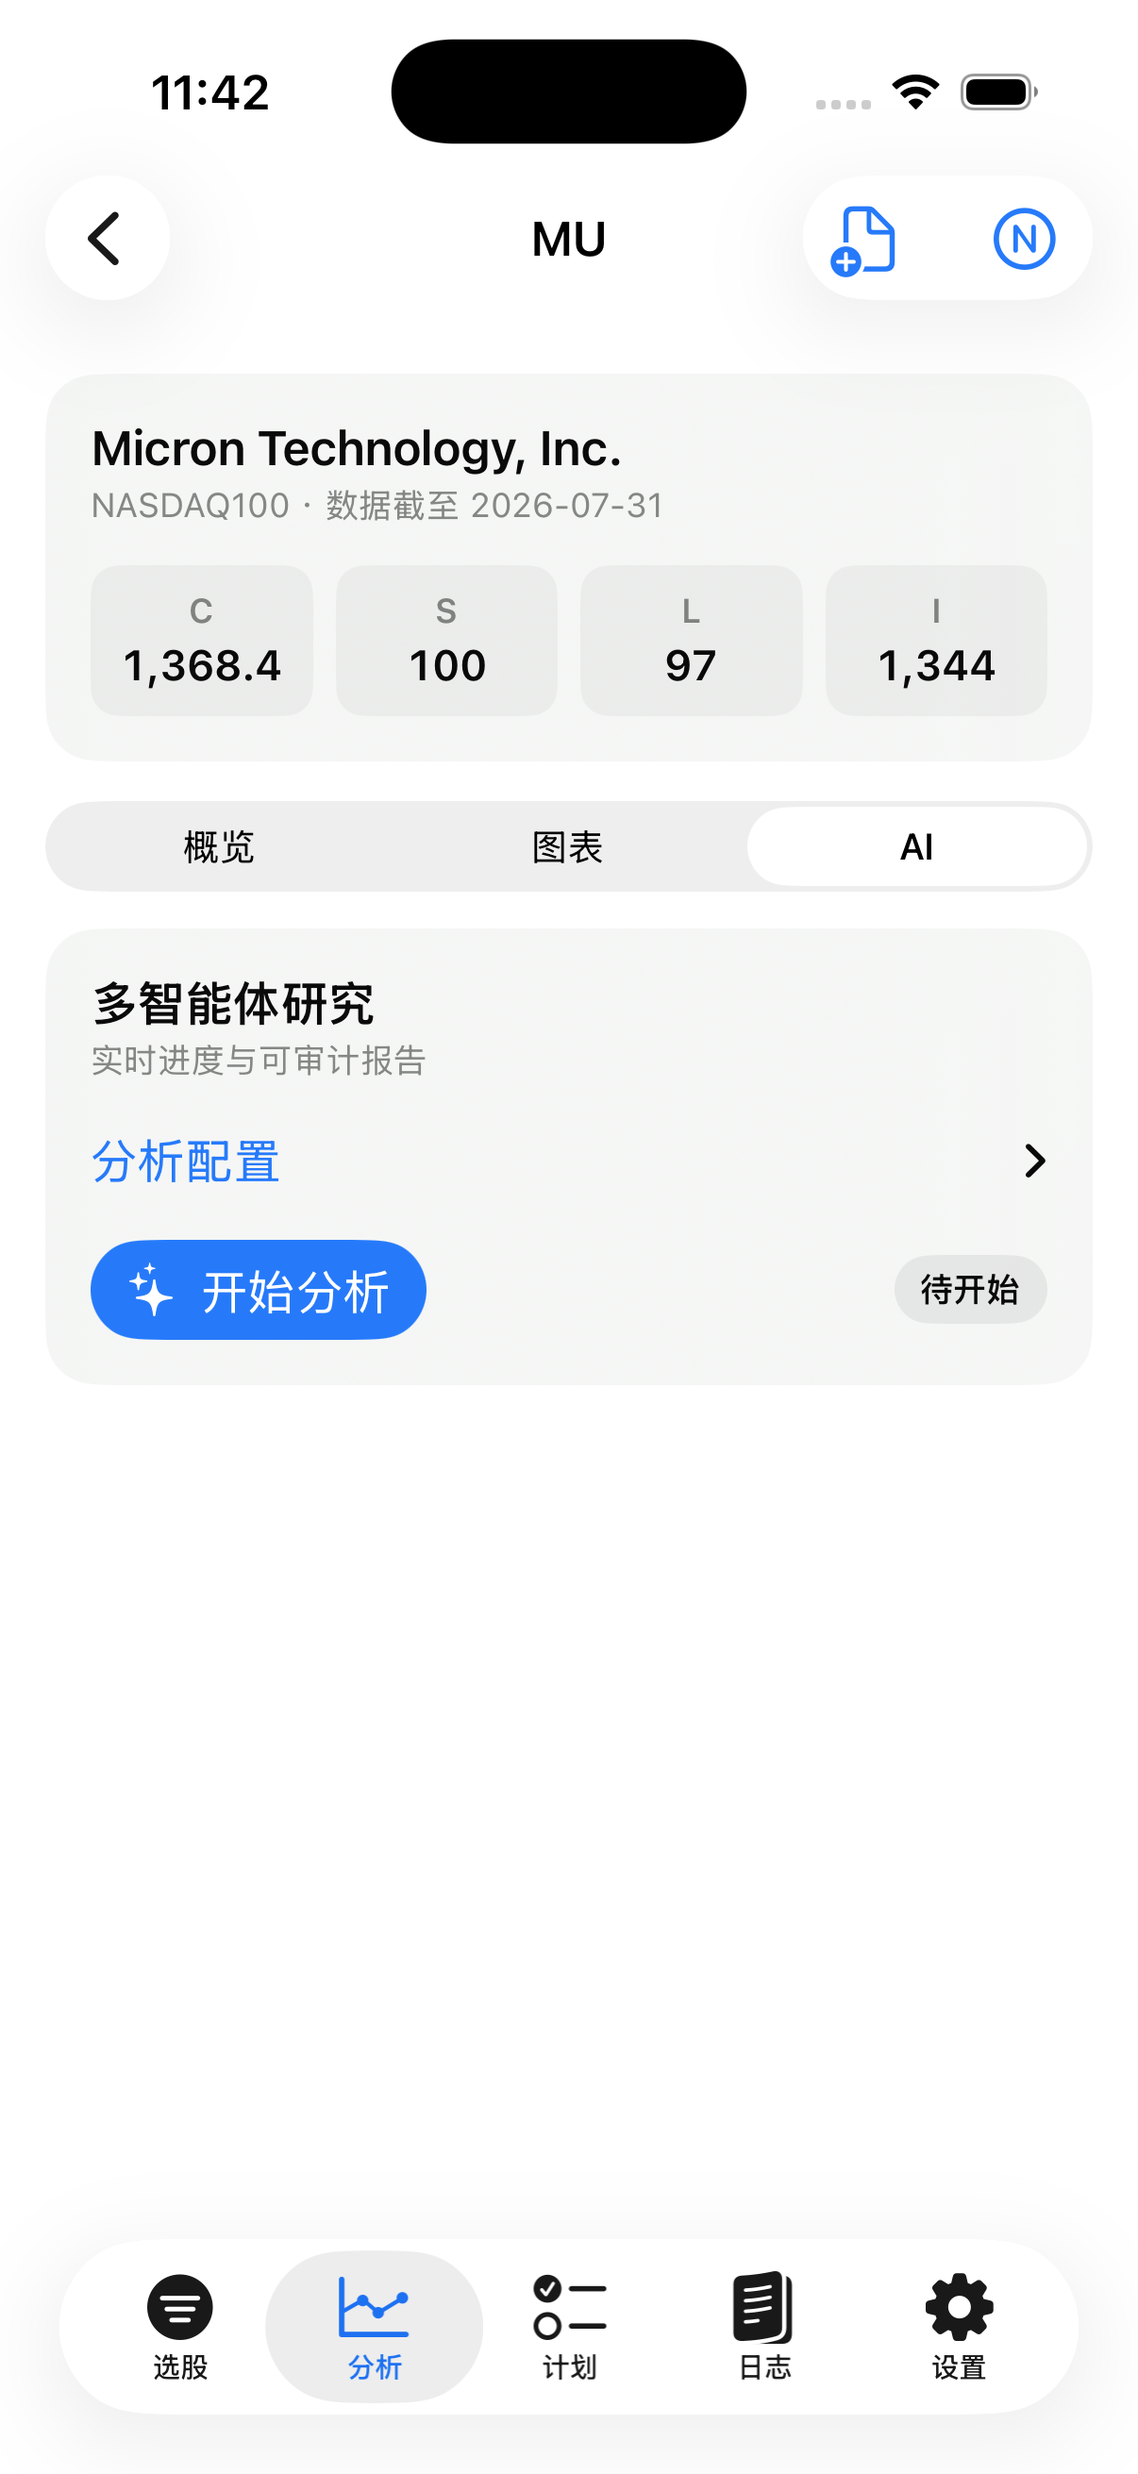
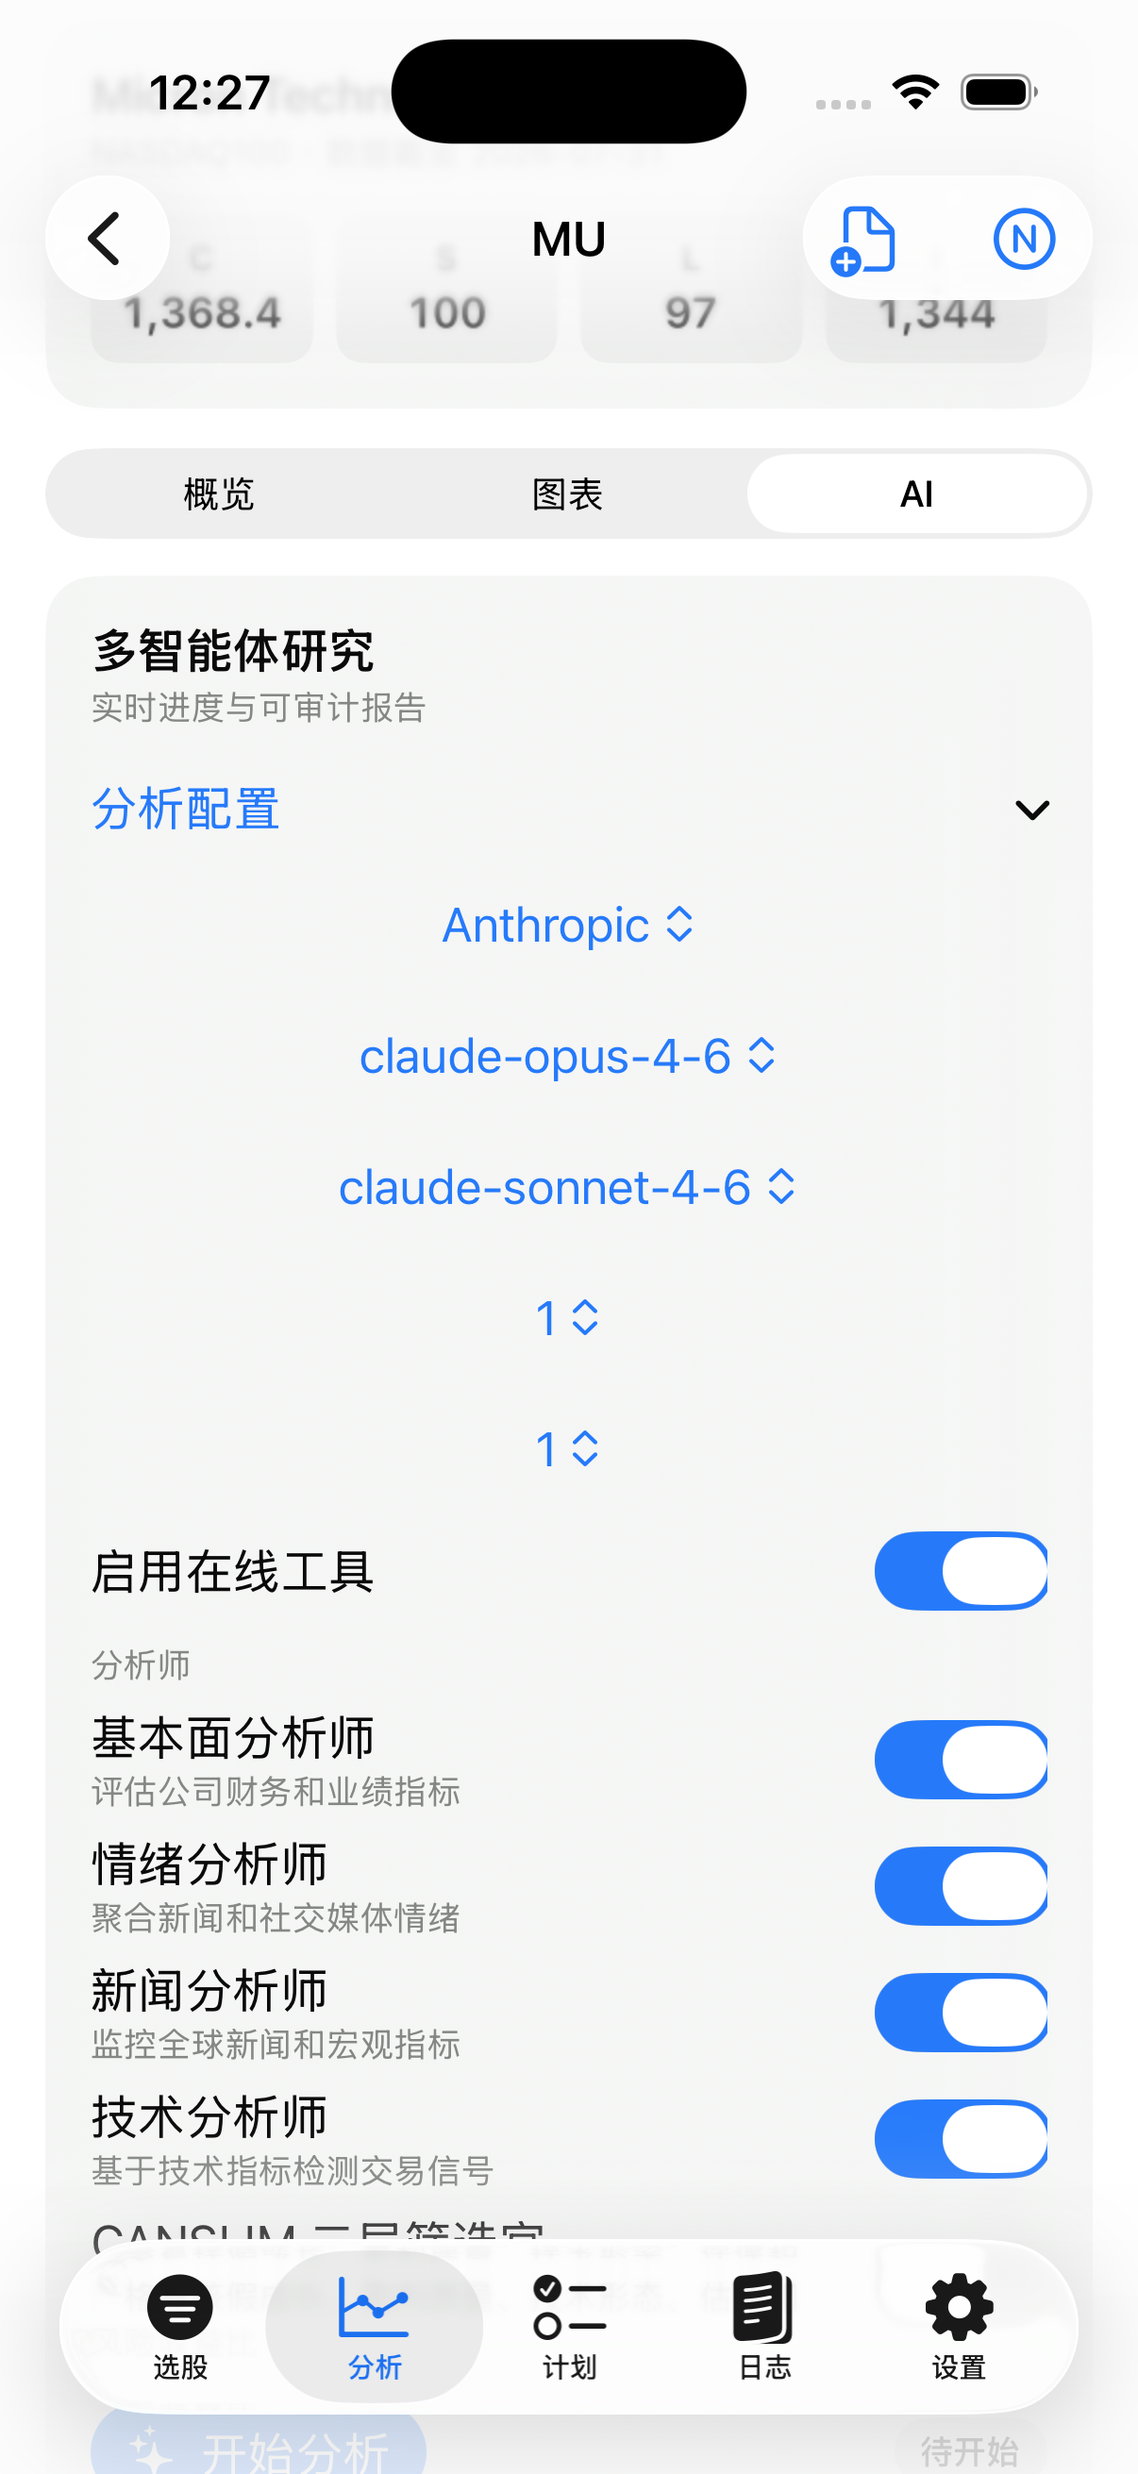
docs: expand iOS product guide

diff --git a/ios/README.md b/ios/README.md
@@ -14,7 +14,38 @@ AI 流式协议，但按 iPhone 的导航方式、触控节奏和信息密度重
 > 当前阶段为可运行的 iOS 17+ 原生工程。研究与账户功能需要连接自行部署的 AlphaLens 后端；
 > App 不自动下单，也不构成投资建议。
 
-## 功能覆盖
+## 为什么单独做原生 iOS 版本
+
+Web 端适合长时间研究和多区域并排查看；iPhone 更适合随时发现候选、检查证据、跟进研究进度和记录执行。
+因此 iOS 端保留完整业务闭环，但重新组织交互：
+
+- 用稳定的五栏 Tab 代替桌面侧栏，让“选股、分析、计划、日志、设置”始终一跳可达；
+- 用 `NavigationStack` 承载个股详情，用 Sheet 承载筛选和编辑，返回路径符合 iPhone 使用习惯；
+- 优先展示结论状态、关键数值、来源与数据日期，再按需展开配置和详细证据；
+- 加载、空数据、后端错误、连接中断、暂停和完成均显示真实状态，不用伪造数据填充界面；
+- 保持与 Web 相同的 REST/SSE 契约，任何客户端都不会生成另一套业务口径。
+
+## 完整研究闭环
+
+```text
+切换市场与股票池
+    ↓
+CANSLIM 筛选 / 实时扫描
+    ↓
+公司资料、价格、RS 与财务证据
+    ↓
+多智能体 AI 研究与人工复核
+    ↓
+创建交易计划
+    ↓
+记录执行 / 导入只读券商成交
+    ↓
+交易日志与行为复盘
+```
+
+研究结果不会直接触发下单。用户始终负责判断是否采纳观点、如何设置风险条件以及是否记录执行。
+
+## 功能总览
 
 | 区域 | 原生体验 | 核心能力 |
 | --- | --- | --- |
@@ -25,32 +56,150 @@ AI 流式协议，但按 iPhone 的导航方式、触控节奏和信息密度重
 | 交易日志 | 原生 List、确认操作 | 手工记录、复盘、行为总结、JSON 导出、删除确认 |
 | 设置 | 系统 Form、Keychain | API 连接、市场、LLM 配置、券商连接、同步预览与确认导入 |
 
+## 功能介绍
+
+### 1. 跨市场 CANSLIM 选股
+
+- 在美股与 A 股之间切换，并只展示当前资产市场支持的股票池；
+- 美股覆盖 S&P 500、Nasdaq 100、Russell 2000；A 股覆盖沪深主板、科创板、创业板与北交所；
+- 读取服务端已有筛选结果，支持下拉刷新，不需要每次进入页面都重新扫描；
+- 按股票代码或公司名称即时搜索；
+- 每只股票以独立的 C、A、N、S、L、I 状态呈现，保留数据日期和是否有 AI 报告；
+- 支持组合标签过滤，只有同时满足已选择条件的候选才会保留；
+- 在筛选 Sheet 中调整季度增长、年度增长与年数、成交量比、均线周期、RS 和机构变化阈值；
+- 保存、应用和删除自定义阈值预设；默认预设受到保护，不会被误删；
+- 发起后台市场数据刷新，并轮询显示任务完成或失败状态；
+- 通过 SSE 实时接收扫描状态、进度和逐只股票结果，可暂停并重新开始；
+- 点击任意候选直接进入同一股票的原生分析详情。
+
+### 2. 个股证据工作台
+
+- 可从选股结果进入，也可以在“分析”Tab 直接输入股票代码；
+- 顶部汇总公司名称、市场、数据日期和关键 CANSLIM 数值；
+- “概览”展示公司行业、业务介绍、官网、来源与更新时间；
+- 二层研究数据保留服务端字段、来源和数据日期，未知内容不会显示为零；
+- “图表”使用 Swift Charts 展示 K 线与成交量、RS 相对强度、季度 EPS、年度营收和季度毛利率；
+- K 线与 RS 支持日、周、月周期切换，并从服务端重新读取对应周期；
+- 支持人工更新 N 标签及事件摘要，结论会同步回 Web 端选股结果；
+- 所有证据并行加载：摘要先出现，其余资料渐进补齐，单个慢接口不会长期锁住整页；
+- 支持下拉刷新，并保留后端返回的可行动错误信息。
+
+### 3. 多智能体 AI 研究
+
+- 自动读取服务端允许使用的供应商、模型、分析师、辩论轮数和在线工具配置；
+- 可分别选择深度模型与快速模型，并为兼容网关填写后端地址；
+- 可组合基本面、市场、新闻和社交情绪等分析师角色；
+- 可调整研究辩论和风险辩论轮数，不在客户端写死分析强度；
+- 启动后通过 `ai-analysis.v1` SSE 实时展示角色进度、解说、报告增量和最终建议；
+- 展示分析动作、置信度和摘要；仓位与风险条件保留在报告及计划层，避免把方向判断直接误读成投入比例；
+- 支持主动暂停；保留 `run_id` 与游标后可继续已有任务，而不是伪装成重新开始；
+- 只有收到服务端 `done` 事件才显示完成，断流或错误不会生成虚假的成功结果；
+- 支持确认后重新分析，避免无意覆盖已有报告；
+- 可把最终摘要写回 N 标签，并导出、分享 Markdown 报告；
+- 客户端不执行静态“回测通过”门槛，也不会用占位文案冒充模型输出。
+
+### 4. 交易计划
+
+- 按股票代码搜索，并按草稿、激活、已执行、已取消和已过期等状态过滤；
+- 创建或编辑观察、做多、做空方向的交易计划；
+- 记录计划日期、有效期、触发条件、计划入场价、止损价、止盈价和仓位；
+- 保存计划理由、AI 摘要和补充备注，保留研究到行动之间的依据；
+- 可直接从个股分析页创建计划，自动预填股票代码和已有 AI 摘要；
+- 执行计划时再次填写实际时间、数量、价格、市场、币种、费用和备注；
+- 确认执行后由服务端同步生成交易日志，避免计划与真实记录断裂。
+
+### 5. 交易日志与行为复盘
+
+- 手工录入买入或卖出记录，包括标的、市场、时间、数量、价格、币种、费用与策略标签；
+- 列表显示成交方向、数量、价格、金额和时间，点击后进入原生编辑表单；
+- 可补充研究笔记和事后复盘，而不覆盖原始成交字段；
+- 删除操作使用系统确认，降低误删风险；
+- 读取最近一次确定性行为复盘，展示已分析记录数、洞察与警告；
+- 可按当前有效日志重新生成行为复盘；
+- 可准备并分享兼容 `vibe.trade_record.v1` 的 JSON 导出文件；
+- 券商导入与手工日志使用同一数据模型，复盘不会因来源不同而分裂。
+
+### 6. AI 模型与密钥设置
+
+- 展示每个 LLM 供应商的“已配置 / 未配置”状态，不回显原始密钥；
+- 可保存或删除服务端加密的 API Key；
+- 支持模型发现，读取供应商实际可用模型，而不是只展示客户端内置列表；
+- 支持兼容 OpenAI 协议的自定义后端地址；
+- 输入与异步状态相互隔离，读取旧状态不会覆盖用户正在编辑的内容。
+
+### 7. 券商只读连接
+
+- 支持长桥、老虎、富途 OpenD 与 IBKR TWS / IB Gateway；
+- 长桥和老虎使用服务端生成的 OAuth 跳转，客户端不接触 Client Secret 或 access token；
+- 富途和 IBKR 检测用户已经登录的本机网关；
+- 连接状态、提示信息和上次同步时间保持可见；
+- 同步前先预览持仓、待导入成交和服务端警告；
+- 必须由用户点击确认才导入日志，不提供自动下单；
+- 断开连接只移除 AlphaLens 保存的授权，不修改券商账户。
+
+### 8. 连接、市场与设备设置
+
+- 修改 API 基地址，并在保存前后执行真实健康检查；
+- 可选内部 API Token 存入系统 Keychain，而不是 `UserDefaults` 或源码；
+- 全局美股 / A 股市场选择会同步影响选股与分析入口；
+- 支持系统深色模式、Dynamic Type、下拉刷新、分享面板和系统确认框；
+- 模拟器、真机和部署地址的连接差异会在设置页明确说明。
+
 ## 界面预览
 
 <table>
   <tr>
     <td align="center"><strong>跨市场选股</strong></td>
     <td align="center"><strong>研究图表</strong></td>
-    <td align="center"><strong>AI 研究</strong></td>
   </tr>
   <tr>
-    <td><img src="../docs/images/ios/01-screener.png" alt="iOS 选股" width="270" /></td>
-    <td><img src="../docs/images/ios/03-analysis-charts.png" alt="iOS 图表" width="270" /></td>
-    <td><img src="../docs/images/ios/04-analysis-ai.png" alt="iOS AI 研究" width="270" /></td>
+    <td><img src="../docs/images/ios/01-screener.png" alt="iOS 选股" width="410" /></td>
+    <td><img src="../docs/images/ios/03-analysis-charts.png" alt="iOS 图表" width="410" /></td>
   </tr>
   <tr>
+    <td align="center"><strong>AI 研究配置</strong></td>
     <td align="center"><strong>分析到计划</strong></td>
+  </tr>
+  <tr>
+    <td><img src="../docs/images/ios/04-analysis-ai.png" alt="iOS AI 研究" width="410" /></td>
+    <td><img src="../docs/images/ios/08-analysis-new-plan.png" alt="从分析新建计划" width="410" /></td>
+  </tr>
+  <tr>
     <td align="center"><strong>交易日志</strong></td>
     <td align="center"><strong>安全设置</strong></td>
   </tr>
   <tr>
-    <td><img src="../docs/images/ios/08-analysis-new-plan.png" alt="从分析新建计划" width="270" /></td>
-    <td><img src="../docs/images/ios/06-journal.png" alt="iOS 交易日志" width="270" /></td>
-    <td><img src="../docs/images/ios/07-settings.png" alt="iOS 设置" width="270" /></td>
+    <td><img src="../docs/images/ios/06-journal.png" alt="iOS 交易日志" width="410" /></td>
+    <td><img src="../docs/images/ios/07-settings.png" alt="iOS 设置" width="410" /></td>
+  </tr>
+  <tr>
+    <td align="center"><strong>CANSLIM 筛选配置</strong></td>
+    <td align="center"><strong>券商只读连接</strong></td>
+  </tr>
+  <tr>
+    <td><img src="../docs/images/ios/09-screener-filters.png" alt="iOS CANSLIM 筛选配置" width="410" /></td>
+    <td><img src="../docs/images/ios/10-brokers.png" alt="iOS 券商只读连接" width="410" /></td>
   </tr>
 </table>
 
 [查看全部截图及 README 使用建议 →](../docs/images/ios/README.md)
+
+### 高清截图建议
+
+后续替换截图时可继续沿用现有文件名，README 会自动更新。建议保留以下状态：
+
+1. `01-screener.png`：至少三只真实候选，显示 CANSLIM 标签和数据日期；
+2. `02-analysis-overview.png`：顶部汇总、公司资料和来源信息同时可见；
+3. `03-analysis-charts.png`：K 线与 RS 至少各露出一张完整图表；
+4. `04-analysis-ai.png`：AI 配置已成功读取，但不要为了截图触发付费分析；
+5. `05-trade-plans.png`：有真实计划时使用列表，否则保留诚实空状态；
+6. `06-journal.png`：展示日志与行为复盘，但避开账户号或敏感备注；
+7. `07-settings.png`：API 地址可以出现，Token、LLM Key 和券商凭据必须留空；
+8. `08-analysis-new-plan.png`：从分析页进入，证明股票代码已经自动预填。
+9. `09-screener-filters.png`：展示阈值方案、CANSLIM 参数和必须通过的标签；
+10. `10-brokers.png`：展示只读连接状态和同步预览入口，避开账户详情。
+
+截图前建议使用浅色模式、标准字号、100% 模拟器缩放，关闭系统确认弹窗，并确保页面停止滚动、数据加载完成。
 
 ## 技术结构
 
@@ -69,6 +218,38 @@ SwiftUI App
 
 iOS 端不复制后端业务规则。Web 与 iOS 使用同一套选股含义、研究结果、交易计划、日志、
 AI 配置及 `ai-analysis.v1` 流式事件，避免两个客户端产生不同结论。
+
+### 主要目录
+
+```text
+ios/
+├─ CANSLIMIOS.xcodeproj/                Xcode 工程
+├─ Config/Info.plist                    本地网络说明与 canslim:// 深链
+└─ CANSLIMIOS/
+   ├─ DesignSystem/                     颜色、卡片、状态和 Markdown 展示
+   ├─ Features/Screener/                选股、筛选、预设、刷新与扫描
+   ├─ Features/Analysis/                个股证据、Charts 与 AI 研究入口
+   ├─ Features/TradePlans/              交易计划与执行表单
+   ├─ Features/Journal/                 日志、导出与行为复盘
+   ├─ Features/Settings/                连接、LLM 与券商设置
+   ├─ Models/                           REST、图表、AI 与券商数据模型
+   └─ Networking/                       API Client、SSE 与 Keychain 设置
+```
+
+### 共享接口
+
+| 能力 | iOS 使用的接口 |
+| --- | --- |
+| 健康检查 | `GET /api/v1/health` |
+| 选股与扫描 | `/screener/results`、`/screener/refresh`、`/screener/scan` |
+| 个股研究 | `/stocks/{symbol}/summary`、`profile`、`kline`、`rs` 与财务序列 |
+| AI 研究 | `GET /analysis/ai/config`、`POST /analysis/{symbol}/ai` |
+| 交易计划 | `/trade-plans`、`/trade-plans/{id}/execute` |
+| 日志与复盘 | `/journal`、`/journal/export`、`/journal/reflections` |
+| AI 凭据 | `/llm/credentials/{provider}`、`/analysis/ai/models` |
+| 券商 | `/brokers`、连接、同步预览、导入与断开接口 |
+
+客户端统一处理 snake_case 编解码、API envelope、后端错误消息、超时和可选内部访问令牌。
 
 ## 环境要求
 
@@ -124,6 +305,27 @@ canslim://settings
 - 券商同步先展示持仓、成交和警告，必须由用户确认后才导入日志。
 - App 不提供下单能力，不把 AI 报告包装成自动交易信号。
 - 来源、数据日期、加载失败和能力降级不会因移动端空间有限而隐藏。
+
+## 页面状态与可访问性
+
+- 首次加载使用明确的进度状态；已有内容刷新时不会用全屏遮罩隐藏旧数据；
+- 空列表说明下一步可以做什么，错误状态保留重试按钮；
+- 破坏性删除、断开连接和重新分析使用系统确认；
+- 主要触控目标遵循 44pt 基线，并使用系统按钮、Picker、Toggle、DatePicker 与分享面板；
+- VoiceOver 可读取股票代码、公司名称、每个 CANSLIM 标签是否通过及数据日期；
+- 系统字体支持 Dynamic Type，颜色同时配合文字或图标表达状态；
+- 依赖系统导航与控件反馈，避免持续性装饰动画和干扰阅读的运动效果。
+
+## 常见连接问题
+
+| 现象 | 优先检查 |
+| --- | --- |
+| `HTTP 404` | API 基地址是否包含正确的 `/api/v1`，端口是否指向 AlphaLens 而不是其他本地服务 |
+| `无法连接服务器` | Go API 是否监听、真机是否能访问 Mac 局域网地址、本地网络权限是否允许 |
+| AI 配置加载失败 | 先检查 `/api/v1/health`，再检查 Python sidecar 与服务端 AI 上游配置 |
+| AI 中途停止 | 查看页面显示的服务端错误；保留 `run_id` 时使用“继续分析” |
+| 券商检测失败 | 确认 OpenD、TWS 或 IB Gateway 已登录，并由后端连接 loopback 网关 |
+| 真机 Keychain/签名异常 | 使用正式 Development Team 和唯一 Bundle Identifier 重新签名 |
 
 ## 已验证
 

diff --git a/docs/images/ios/README.md b/docs/images/ios/README.md
@@ -13,5 +13,8 @@
 | [`06-journal.png`](06-journal.png) | 真实交易日志与行为复盘 | 交易闭环与复盘能力 |
 | [`07-settings.png`](07-settings.png) | API、市场、AI 与券商设置入口 | 本地优先和安全配置 |
 | [`08-analysis-new-plan.png`](08-analysis-new-plan.png) | 从 MU 分析页进入、已预填代码的新建计划表单 | 分析到执行计划的跨模块闭环 |
+| [`09-screener-filters.png`](09-screener-filters.png) | 自定义 CANSLIM 阈值和必须通过标签 | 筛选能力与参数化研究 |
+| [`10-brokers.png`](10-brokers.png) | 长桥连接、富途 OpenD 与 IBKR 本机网关检测 | 券商只读同步与安全边界 |
 
 更新截图时应继续使用相同命名，先确认页面无系统确认框遮挡，并检查画面中没有任何密钥或账户敏感信息。
+主 README 使用两列、每张 410px 宽展示，源文件保留 1206×2622 Retina 分辨率，点击或单独打开图片时仍可查看完整细节。
